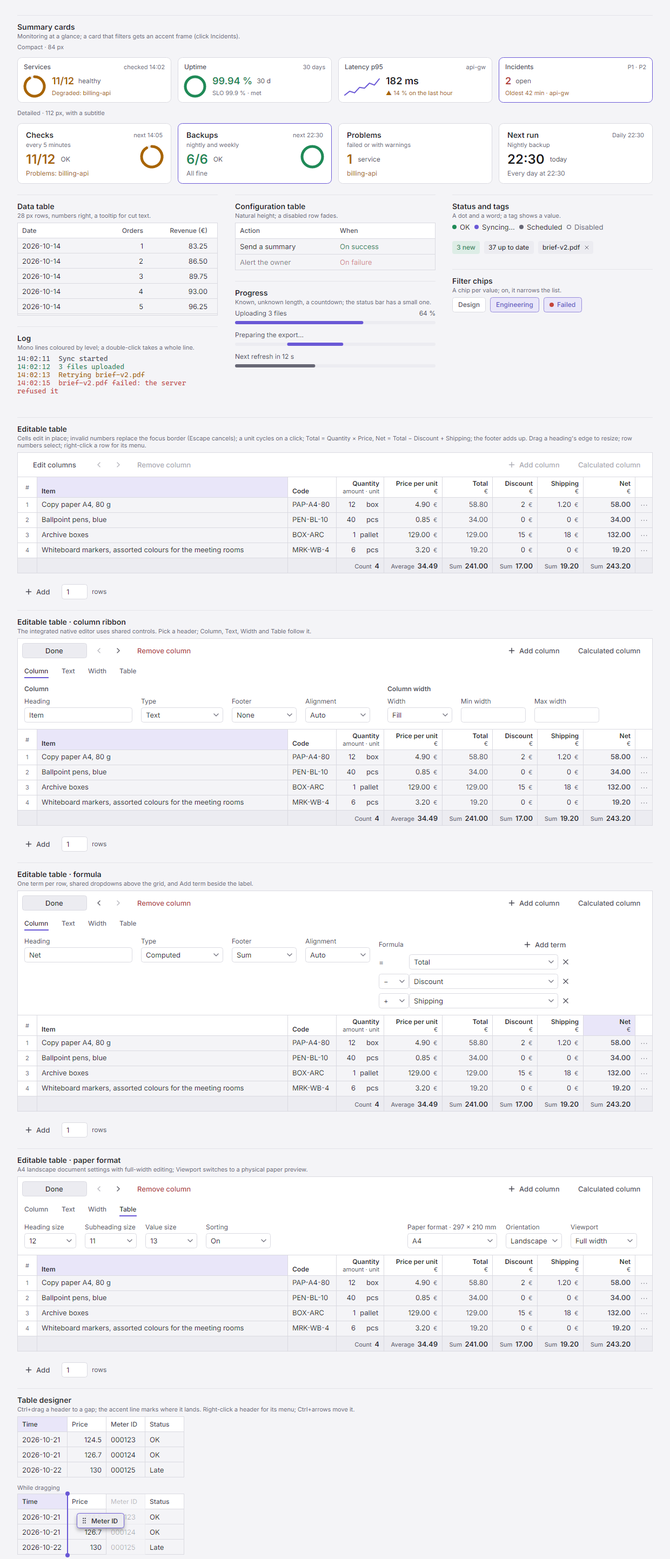
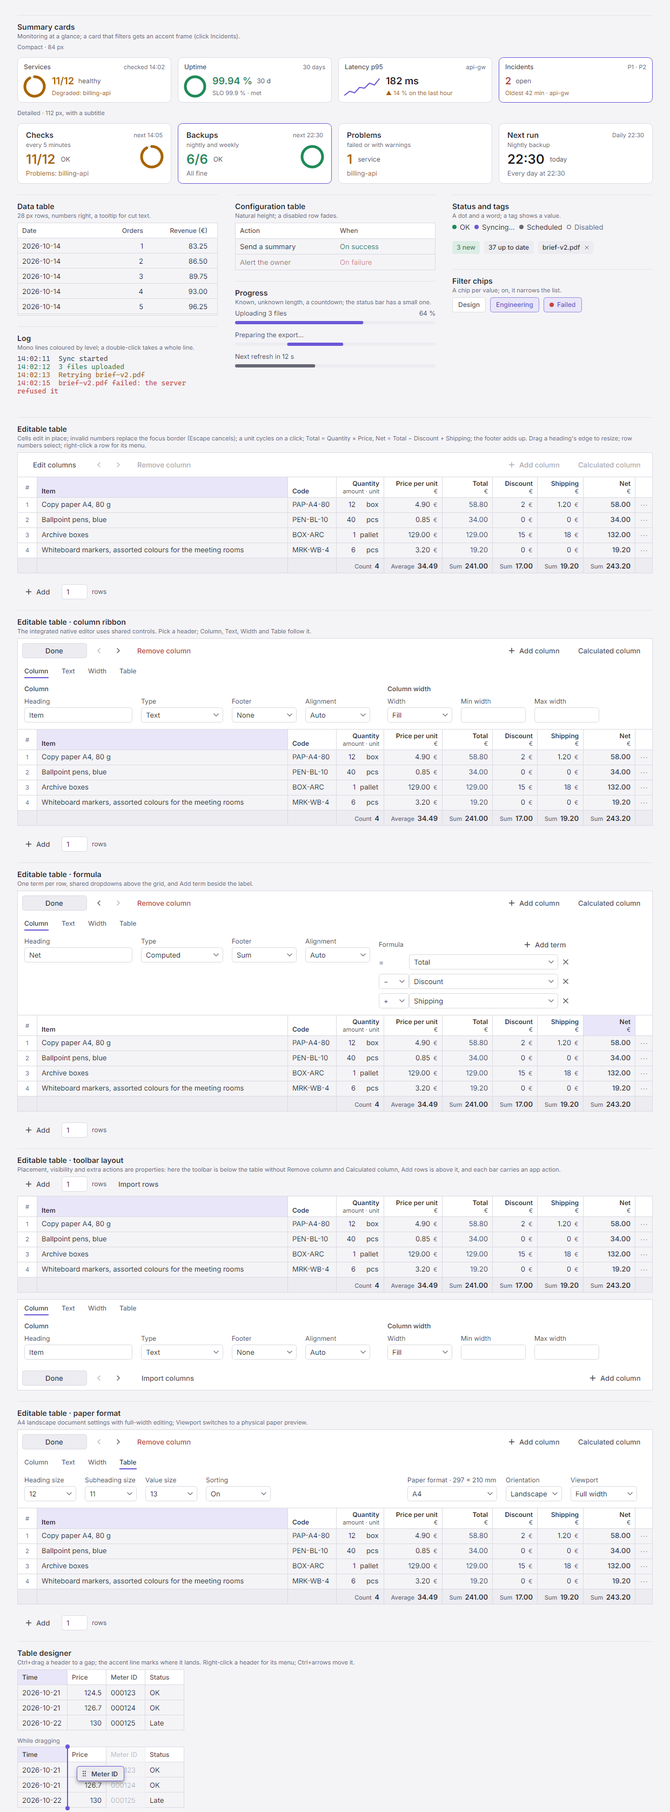
EditableTable: placement, visibility and extra actions for the toolbar and Add rows bar
ToolbarActions (flags) hides built-in toolbar buttons; ToolbarPlacement and
AddRowsPlacement put each bar above, below or away; ToolbarItems and
AddRowsItems take the app's own controls. Defaults keep the current layout.
Web grid: toolbar, toolbarPlacement, addRowsPlacement options and data-slot
children. Additive public API.

diff --git a/docs/index.html b/docs/index.html
@@ -505,6 +505,9 @@
     <div class="block wide"><h4>Editable table</h4><p class="help">Type in any cell; Enter and Shift+Enter go down and up. Invalid numbers show an error and keep the last accepted value; correct the draft or press Escape. Click a unit to change it. Columns fit their content, fill the room left (Item) or keep a fixed width, each with a min and max width; drag a heading's wider edge target to resize (a fill column's minimum; double-click fits). Click a heading to sort: up, down, back to the original order. Click row numbers to select (Ctrl adds, Shift takes a range); right-click or ⋯ for Duplicate, Insert and Delete. Click a footer to choose what it shows. Choose <b>Edit columns</b> in the table toolbar to open the inline ribbon; <b>Done</b> returns to data entry. In edit mode, click a heading to select it; hold Ctrl and drag a heading to a gap (release Ctrl or Esc to cancel), right-click it to insert or remove, Ctrl+←/→ to move.</p>
       <div class="s-grid" id="order-grid"><script type="application/json">{"columns": [{"key": "item", "title": "Item", "type": "text", "grow": true}, {"key": "sku", "title": "Code", "type": "text"}, {"key": "qty", "title": "Quantity", "subtitle": "amount · unit", "type": "unit", "units": ["pcs", "box", "pallet"], "footer": "count"}, {"key": "price", "title": "Price per unit", "subtitle": "€", "type": "number", "decimals": 2, "suffix": "€", "footer": "average"}, {"key": "total", "title": "Total", "subtitle": "€", "type": "computed", "decimals": 2, "footer": "sum", "terms": [{"k": "qty"}, {"op": "×", "k": "price"}]}, {"key": "discount", "title": "Discount", "subtitle": "€", "type": "number", "decimals": 2, "suffix": "€", "footer": "sum"}, {"key": "shipping", "title": "Shipping", "subtitle": "€", "type": "number", "decimals": 2, "suffix": "€", "footer": "sum"}, {"key": "net", "title": "Net", "subtitle": "€", "type": "computed", "decimals": 2, "bold": true, "footer": "sum", "terms": [{"k": "total"}, {"op": "−", "k": "discount"}, {"op": "+", "k": "shipping"}]}], "rows": [{"item": "Copy paper A4, 80 g", "sku": "PAP-A4-80", "qty": "12", "qty:unit": "box", "price": "4.90", "discount": "2", "shipping": "1.20"}, {"item": "Ballpoint pens, blue", "sku": "PEN-BL-10", "qty": "40", "qty:unit": "pcs", "price": "0.85", "discount": "0", "shipping": "0"}, {"item": "Sticky notes 76 × 76 mm", "sku": "NOTE-76", "qty": "2", "qty:unit": "box", "price": "6.40", "discount": "0", "shipping": "0"}, {"item": "Archive boxes", "sku": "BOX-ARC", "qty": "1", "qty:unit": "pallet", "price": "129.00", "discount": "15", "shipping": "18"}, {"item": "Whiteboard markers, assorted colours for the meeting rooms", "sku": "MRK-WB-4", "qty": "6", "qty:unit": "pcs", "price": "3.20", "discount": "0", "shipping": "0"}, {"item": "Desk organiser", "sku": "ORG-DSK", "qty": "3", "qty:unit": "pcs", "price": "12.50", "discount": "1.5", "shipping": "0.80"}]}</script></div>
     </div>
+    <div class="block wide"><h4>Editable table · toolbar layout</h4><p class="help">The options place and trim the bars: <code>toolbar</code> lists the actions that show, <code>toolbarPlacement</code> and <code>addRowsPlacement</code> are <code>top</code>, <code>bottom</code> or <code>hidden</code>, and children marked <code>data-slot="toolbar"</code> or <code>data-slot="add"</code> are the app's own controls. Here the toolbar is below the table without Remove column and Calculated column, Add rows is above it, and each bar carries an action.</p>
+      <div class="s-grid" id="toolbar-grid"><button type="button" class="s-btn ghost" data-slot="toolbar">Import columns</button><button type="button" class="s-btn ghost" data-slot="add">Import rows</button><script type="application/json">{"columns": [{"key": "item", "title": "Item", "type": "text", "grow": true}, {"key": "qty", "title": "Quantity", "type": "number"}, {"key": "price", "title": "Price", "type": "number", "decimals": 2, "suffix": "€"}], "rows": [{"item": "Copy paper A4", "qty": "12", "price": "4.90"}, {"item": "Ballpoint pens", "qty": "40", "price": "0.85"}], "options": {"toolbar": ["edit", "move", "add"], "toolbarPlacement": "bottom", "addRowsPlacement": "top"}}</script></div>
+    </div>
     <div class="masonry">
 <div class="block"><h4>Data table</h4><p class="help">Click a row (Ctrl adds); click a heading to sort up, again down, a third time back to the original order; right-click for the menu.</p>
         <table class="s-table rows sortable"><thead><tr><th>Date</th><th class="num">Orders</th><th class="num">Revenue (€)</th></tr></thead><tbody>

diff --git a/gallery/landing.html b/gallery/landing.html
@@ -408,6 +408,9 @@
     <div class="block wide"><h4>Editable table</h4><p class="help">Type in any cell; Enter and Shift+Enter go down and up. Invalid numbers show an error and keep the last accepted value; correct the draft or press Escape. Click a unit to change it. Columns fit their content, fill the room left (Item) or keep a fixed width, each with a min and max width; drag a heading's wider edge target to resize (a fill column's minimum; double-click fits). Click a heading to sort: up, down, back to the original order. Click row numbers to select (Ctrl adds, Shift takes a range); right-click or ⋯ for Duplicate, Insert and Delete. Click a footer to choose what it shows. Choose <b>Edit columns</b> in the table toolbar to open the inline ribbon; <b>Done</b> returns to data entry. In edit mode, click a heading to select it; hold Ctrl and drag a heading to a gap (release Ctrl or Esc to cancel), right-click it to insert or remove, Ctrl+←/→ to move.</p>
       <div class="s-grid" id="order-grid"><script type="application/json">{"columns": [{"key": "item", "title": "Item", "type": "text", "grow": true}, {"key": "sku", "title": "Code", "type": "text"}, {"key": "qty", "title": "Quantity", "subtitle": "amount · unit", "type": "unit", "units": ["pcs", "box", "pallet"], "footer": "count"}, {"key": "price", "title": "Price per unit", "subtitle": "€", "type": "number", "decimals": 2, "suffix": "€", "footer": "average"}, {"key": "total", "title": "Total", "subtitle": "€", "type": "computed", "decimals": 2, "footer": "sum", "terms": [{"k": "qty"}, {"op": "×", "k": "price"}]}, {"key": "discount", "title": "Discount", "subtitle": "€", "type": "number", "decimals": 2, "suffix": "€", "footer": "sum"}, {"key": "shipping", "title": "Shipping", "subtitle": "€", "type": "number", "decimals": 2, "suffix": "€", "footer": "sum"}, {"key": "net", "title": "Net", "subtitle": "€", "type": "computed", "decimals": 2, "bold": true, "footer": "sum", "terms": [{"k": "total"}, {"op": "−", "k": "discount"}, {"op": "+", "k": "shipping"}]}], "rows": [{"item": "Copy paper A4, 80 g", "sku": "PAP-A4-80", "qty": "12", "qty:unit": "box", "price": "4.90", "discount": "2", "shipping": "1.20"}, {"item": "Ballpoint pens, blue", "sku": "PEN-BL-10", "qty": "40", "qty:unit": "pcs", "price": "0.85", "discount": "0", "shipping": "0"}, {"item": "Sticky notes 76 × 76 mm", "sku": "NOTE-76", "qty": "2", "qty:unit": "box", "price": "6.40", "discount": "0", "shipping": "0"}, {"item": "Archive boxes", "sku": "BOX-ARC", "qty": "1", "qty:unit": "pallet", "price": "129.00", "discount": "15", "shipping": "18"}, {"item": "Whiteboard markers, assorted colours for the meeting rooms", "sku": "MRK-WB-4", "qty": "6", "qty:unit": "pcs", "price": "3.20", "discount": "0", "shipping": "0"}, {"item": "Desk organiser", "sku": "ORG-DSK", "qty": "3", "qty:unit": "pcs", "price": "12.50", "discount": "1.5", "shipping": "0.80"}]}</script></div>
     </div>
+    <div class="block wide"><h4>Editable table · toolbar layout</h4><p class="help">The options place and trim the bars: <code>toolbar</code> lists the actions that show, <code>toolbarPlacement</code> and <code>addRowsPlacement</code> are <code>top</code>, <code>bottom</code> or <code>hidden</code>, and children marked <code>data-slot="toolbar"</code> or <code>data-slot="add"</code> are the app's own controls. Here the toolbar is below the table without Remove column and Calculated column, Add rows is above it, and each bar carries an action.</p>
+      <div class="s-grid" id="toolbar-grid"><button type="button" class="s-btn ghost" data-slot="toolbar">Import columns</button><button type="button" class="s-btn ghost" data-slot="add">Import rows</button><script type="application/json">{"columns": [{"key": "item", "title": "Item", "type": "text", "grow": true}, {"key": "qty", "title": "Quantity", "type": "number"}, {"key": "price", "title": "Price", "type": "number", "decimals": 2, "suffix": "€"}], "rows": [{"item": "Copy paper A4", "qty": "12", "price": "4.90"}, {"item": "Ballpoint pens", "qty": "40", "price": "0.85"}], "options": {"toolbar": ["edit", "move", "add"], "toolbarPlacement": "bottom", "addRowsPlacement": "top"}}</script></div>
+    </div>
     <div class="masonry">
 <div class="block"><h4>Data table</h4><p class="help">Click a row (Ctrl adds); click a heading to sort up, again down, a third time back to the original order; right-click for the menu.</p>
         <table class="s-table rows sortable"><thead><tr><th>Date</th><th class="num">Orders</th><th class="num">Revenue (€)</th></tr></thead><tbody>

diff --git a/docs/shade.js b/docs/shade.js
@@ -631,13 +631,14 @@
     // sizing: fit (its content, never cut), fill (the room the others leave) or fixed (width); min and max hold any of them
     var cols = cfg.columns.map(function (c) { return Object.assign({ type: 'text', footer: 'none', width: null, min: null, max: null, sizing: c.grow ? 'fill' : c.width ? 'fixed' : 'fit' }, c); });
     var rows = cfg.rows.map(function (r) { return { id: ++seq, v: Object.assign({}, r) }; });
-    var opt = Object.assign({ head: 12, sub: 11, cell: 13, sorting: true, design: false, paper: 'Screen', orientation: 'Portrait', paperWidth: 210, paperHeight: 297, constrain: true, paperDimensionsPlacement: 'Bottom' }, cfg.options || {}), sort = { key: null, dir: 0 };
+    var opt = Object.assign({ head: 12, sub: 11, cell: 13, sorting: true, design: false, paper: 'Screen', orientation: 'Portrait', paperWidth: 210, paperHeight: 297, constrain: true, paperDimensionsPlacement: 'Bottom', toolbar: ['edit', 'move', 'remove', 'add', 'computed'], toolbarPlacement: 'top', addRowsPlacement: 'bottom' }, cfg.options || {}), sort = { key: null, dir: 0 };
     var selected = {}, anchor = null, current = cols[0].key, line = document.createElement('div');
     function field(label, key, items, scope, extra) {
       var attr = ' data-grid="' + box.id + '" data-' + (scope || 'col') + '="' + key + '"';
       return '<label class="s-label grid-field-' + key + '">' + label + (items ? '<span class="s-select"' + attr + ' data-items="' + items + '"></span>'
         : '<input class="s-field"' + attr + (extra || '') + '>') + '</label>';
     }
+    var slots = { toolbar: $('[data-slot="toolbar"]', box), add: $('[data-slot="add"]', box) };
     box.innerHTML = '<div class="grid-toolbar" role="toolbar" aria-label="Table columns"><button type="button" class="s-btn ghost edit-columns" data-opt="design" aria-pressed="false" aria-expanded="false" aria-controls="' + box.id + '-ribbon">Edit columns</button>' +
       '<button type="button" class="s-btn ghost square move-left" aria-label="Move column left" data-tip="Move column left" disabled>' + icon('chevron-left') + '</button>' +
       '<button type="button" class="s-btn ghost square move-right" aria-label="Move column right" data-tip="Move column right" disabled>' + icon('chevron-right') + '</button>' +
@@ -667,6 +668,14 @@
       '<input class="s-field count" value="1" inputmode="numeric" aria-label="Rows to add"><span>rows</span></div>';
     $('.s-select', box).forEach(function (el) { el.setAttribute('data-floating', ''); select(el); el.querySelector('button').setAttribute('aria-label', el.parentElement.firstChild.textContent); });
     line.className = 'line'; line.hidden = true; box.appendChild(line);
+    // the toolbar and the Add rows bar: options pick the actions and the side; [data-slot="toolbar"|"add"] children are the app's own controls
+    var tools = { edit: '.edit-columns', move: '.move-left, .move-right', remove: '.remove-column', add: '.grid-toolbar .column', computed: '.computed-column' }, bar = box.querySelector('.grid-toolbar'), addBar = box.querySelector('.add');
+    Object.keys(tools).forEach(function (k) { $(tools[k], box).forEach(function (el) { el.hidden = opt.toolbar.indexOf(k) < 0; }); });
+    slots.toolbar.forEach(function (el) { bar.insertBefore(el, bar.querySelector('.grid-toolbar-spacer')); });
+    slots.add.forEach(function (el) { addBar.appendChild(el); });
+    bar.hidden = opt.toolbarPlacement === 'hidden' || !bar.querySelector(':scope > :not([hidden]):not(.grid-toolbar-spacer)');
+    addBar.hidden = opt.addRowsPlacement === 'hidden';
+    box.dataset.toolbarAt = opt.toolbarPlacement; box.dataset.addAt = opt.addRowsPlacement;
     var scroll = box.querySelector('.scroll'), table = scroll.firstChild, countField = box.querySelector('.count');
     var ribbon = box.querySelector('.grid-ribbon'), edit = box.querySelector('.edit-columns'), tabs = $('[role="tab"]', ribbon);
     var activePane = 0, panels = $('.grid-ribbon-panel', ribbon), groupLabels = ['Column', 'Column text', 'Column width', 'Table defaults and paper'];

diff --git a/docs/shade.css b/docs/shade.css
@@ -517,6 +517,12 @@ mark.s-hit { padding: 0 1px; margin: 0 -1px; border-radius: 2px; background: var
 .s-grid .grid-toolbar { display: flex; align-items: center; gap: 8px; }
 .s-grid .grid-toolbar { min-height: 44px; padding: 8px; border: 1px solid var(--separator); border-bottom: 0; background: var(--raised); flex-wrap: wrap; }
 .s-grid .grid-toolbar-spacer { flex: 1; }
+.s-grid .grid-toolbar[hidden], .s-grid .add[hidden], .s-grid .s-btn[hidden] { display: none; }
+/* the bars on the other side: a column, so `order` moves them (the editor opens on the table's side of the toolbar) */
+.s-grid[data-toolbar-at="bottom"], .s-grid[data-add-at="top"] { display: flex; flex-direction: column; }
+.s-grid[data-toolbar-at="bottom"] .grid-toolbar { order: 3; border-top: 0; border-bottom: 1px solid var(--separator); }
+.s-grid[data-toolbar-at="bottom"] .grid-ribbon { order: 2; border-top: 1px solid var(--separator); border-bottom: 0; }
+.s-grid[data-add-at="top"] .add { order: -1; margin: 0 0 8px; }
 .s-grid .edit-columns { min-width: 120px; }
 .s-grid .grid-ribbon { padding: 8px 12px 12px; border: 1px solid var(--separator); border-bottom: 0; background: var(--raised); }
 .s-grid .grid-ribbon-tabs { margin-bottom: 12px; }

diff --git a/src/Shade/Controls/EditableTable.ColumnEditor.cs b/src/Shade/Controls/EditableTable.ColumnEditor.cs
@@ -16,6 +16,25 @@ public sealed partial class EditableTable
     /// <summary>Show the integrated column toolbar and inline editor. Off preserves the existing table layout.</summary>
     public static readonly DirectProperty<EditableTable, bool> ShowColumnEditorProperty = AvaloniaProperty.RegisterDirect<EditableTable, bool>(nameof(ShowColumnEditor), x => x.ShowColumnEditor, (x, v) => x.ShowColumnEditor = v);
     public bool ShowColumnEditor { get => showColumnEditor; set { if (SetAndRaise(ShowColumnEditorProperty, ref showColumnEditor, value)) { if (value && !columnEditorCreated) BuildColumnEditor(); Rebuild(); } } }
+    /// <summary>The built-in toolbar buttons; clear a flag to hide that action (the table still works through code and the column menu).</summary>
+    [Flags] public enum ToolbarAction { None = 0, EditColumns = 1, MoveColumn = 2, RemoveColumn = 4, AddColumn = 8, CalculatedColumn = 16, All = 31 }
+    /// <summary>Where a bar sits around the grid. Hidden removes the Add rows bar, or the toolbar's buttons (the open column editor stays on top).</summary>
+    public enum BarPlacement { Top, Bottom, Hidden }
+    public static readonly StyledProperty<ToolbarAction> ToolbarActionsProperty = AvaloniaProperty.Register<EditableTable, ToolbarAction>(nameof(ToolbarActions), ToolbarAction.All, validate: value => (value & ~ToolbarAction.All) == 0);
+    public static readonly StyledProperty<BarPlacement> ToolbarPlacementProperty = AvaloniaProperty.Register<EditableTable, BarPlacement>(nameof(ToolbarPlacement), BarPlacement.Top, validate: value => Enum.IsDefined(value));
+    public static readonly StyledProperty<BarPlacement> AddRowsPlacementProperty = AvaloniaProperty.Register<EditableTable, BarPlacement>(nameof(AddRowsPlacement), BarPlacement.Bottom, validate: value => Enum.IsDefined(value));
+    /// <summary>Which built-in toolbar buttons show (all by default); the other groups close up.</summary>
+    public ToolbarAction ToolbarActions { get => GetValue(ToolbarActionsProperty); set => SetValue(ToolbarActionsProperty, value); }
+    /// <summary>The toolbar above the table (default) or below it, with the open column editor beside it.</summary>
+    public BarPlacement ToolbarPlacement { get => GetValue(ToolbarPlacementProperty); set => SetValue(ToolbarPlacementProperty, value); }
+    /// <summary>The Add rows bar below the table (default), above it, or removed.</summary>
+    public BarPlacement AddRowsPlacement { get => GetValue(AddRowsPlacementProperty); set => SetValue(AddRowsPlacementProperty, value); }
+    /// <summary>The app's own controls in the toolbar, between the built-in groups.</summary>
+    public Controls ToolbarItems => toolbarItems.Children;
+    /// <summary>The app's own controls at the end of the Add rows bar.</summary>
+    public Controls AddRowsItems => addRowsItems.Children;
+    readonly StackPanel toolbarItems = new() { Orientation = Orientation.Horizontal, Spacing = M(8), IsVisible = false };
+    StackPanel? toolbarLeft, toolbarRight;
     bool showColumnEditor, syncingColumnEditor, columnEditorCreated;
     readonly List<Action<Column>> columnEditorSync = new();
     readonly List<(Field Field, int Pane, Func<bool> Applies, Action Validate, Action Commit, Action Reset)> ribbonFields = new();
@@ -31,7 +50,7 @@ public sealed partial class EditableTable
 
     Control CreateColumnEditor(Control grid)
     {
-        var root = new Grid { RowDefinitions = new RowDefinitions("Auto,*"), Children = { columnEditorHead, grid } }; Grid.SetRow(grid, 1);
+        var root = new Grid { RowDefinitions = new RowDefinitions("Auto,*,Auto"), Children = { columnEditorHead, grid } }; Grid.SetRow(grid, 1);
         return root;
     }
     void BuildColumnEditor()
@@ -43,13 +62,14 @@ public sealed partial class EditableTable
         Words(editColumns, b => b.Content = T(Design ? "Done" : "Edit columns"));
         Words(newColumn, b => b.Content = T("Add column")); Words(computedColumn, b => b.Content = T("Calculated column")); Words(removeColumn, b => b.Content = T("Remove column"));
         Words(columnTabs, tabs => { var names = new[] { "Column", "Text", "Width", "Table" }; for (int i = 0; i < names.Length; i++) tabs.SetName(i, T(names[i])); });
-        var left = new StackPanel { Orientation = Orientation.Horizontal, Spacing = M(8), Children = { editColumns, moveLeft, moveRight, removeColumn } };
-        var right = new StackPanel { Orientation = Orientation.Horizontal, HorizontalAlignment = HorizontalAlignment.Right, Spacing = M(8), Children = { newColumn, computedColumn } };
+        var left = toolbarLeft = new StackPanel { Orientation = Orientation.Horizontal, Spacing = M(8), Children = { editColumns, moveLeft, moveRight, removeColumn } };
+        var right = toolbarRight = new StackPanel { Orientation = Orientation.Horizontal, HorizontalAlignment = HorizontalAlignment.Right, Spacing = M(8), Children = { newColumn, computedColumn } };
+        toolbarItems.Children.CollectionChanged += (_, _) => SyncColumnEditor();
         editColumns.MinWidth = M(120);
         foreach (var button in new[] { moveLeft, moveRight }) { button.MinWidth = 0; button.Width = ControlHeight; }
         Words(moveLeft, b => { ToolTip.SetTip(b, T("Move column left")); Avalonia.Automation.AutomationProperties.SetName(b, T("Move column left")); });
         Words(moveRight, b => { ToolTip.SetTip(b, T("Move column right")); Avalonia.Automation.AutomationProperties.SetName(b, T("Move column right")); });
-        var toolbar = new RibbonFlow { AlignLast = true, Children = { left, right } };
+        var toolbar = new RibbonFlow { AlignLast = true, Children = { left, toolbarItems, right } };
         columnToolbarFrame.Child = toolbar; columnToolbarFrame.Padding = new Thickness(M(8)); columnToolbarFrame.BorderThickness = new Thickness(1, 1, 1, 0);
         columnRibbonFrame.Child = columnRibbon; columnRibbonFrame.Padding = new Thickness(M(12), M(8), M(12), 0); columnRibbonFrame.BorderThickness = new Thickness(1, 0, 1, 0);
         columnEditorHead.Children.Add(columnToolbarFrame); columnEditorHead.Children.Add(columnRibbonFrame);
@@ -205,6 +225,7 @@ public sealed partial class EditableTable
         columnEditorHead.IsVisible = ShowColumnEditor;
         if (!columnEditorCreated) return;
         columnRibbonFrame.IsVisible = Design && !IsReadOnly;
+        SyncToolbarLayout();
         editColumns.Content = T(Design ? "Done" : "Edit columns"); editColumns.Kind = Design ? ButtonKind.Normal : ButtonKind.Ghost;
         editColumns.IsEnabled = !IsReadOnly;
         var mutable = Design && !IsReadOnly && !columns.IsReadOnly;
@@ -244,6 +265,25 @@ public sealed partial class EditableTable
         }
         finally { syncingColumnEditor = false; }
         PaintColumnEditor();
+    }
+    void SyncToolbarLayout()
+    {
+        var shown = ToolbarActions;
+        editColumns.IsVisible = shown.HasFlag(ToolbarAction.EditColumns);
+        moveLeft.IsVisible = moveRight.IsVisible = shown.HasFlag(ToolbarAction.MoveColumn);
+        removeColumn.IsVisible = shown.HasFlag(ToolbarAction.RemoveColumn);
+        newColumn.IsVisible = shown.HasFlag(ToolbarAction.AddColumn);
+        computedColumn.IsVisible = shown.HasFlag(ToolbarAction.CalculatedColumn);
+        toolbarLeft!.IsVisible = editColumns.IsVisible || moveLeft.IsVisible || removeColumn.IsVisible;
+        toolbarRight!.IsVisible = newColumn.IsVisible || computedColumn.IsVisible;
+        toolbarItems.IsVisible = toolbarItems.Children.Count > 0;
+        columnToolbarFrame.IsVisible = ToolbarPlacement != BarPlacement.Hidden && (toolbarLeft.IsVisible || toolbarItems.IsVisible || toolbarRight.IsVisible);
+        bool bottom = ToolbarPlacement == BarPlacement.Bottom;
+        Grid.SetRow(columnEditorHead, bottom ? 2 : 0);
+        // the editor opens on the table's side of the toolbar
+        if ((columnEditorHead.Children[0] == columnToolbarFrame) == bottom) columnEditorHead.Children.Move(0, 1);
+        columnToolbarFrame.BorderThickness = new Thickness(1, bottom ? 0 : 1, 1, bottom ? 1 : 0);
+        columnRibbonFrame.BorderThickness = bottom ? new Thickness(1, 1, 1, 0) : new Thickness(1, 0, 1, 0);
     }
     void PaintColumnEditor()
     {

diff --git a/src/Shade/Controls/EditableTable.cs b/src/Shade/Controls/EditableTable.cs
@@ -181,6 +181,9 @@ namespace Shade
         sealed class Pinned : Panel
         {
             readonly Control head, body, foot, across, down, actions, validation;
+            /// <summary>The actions sit above the heading instead of below the grid.</summary>
+            public bool ActionsFirst { get => actionsFirst; set { if (actionsFirst == value) return; actionsFirst = value; InvalidateArrange(); } }
+            bool actionsFirst;
             public Pinned(Control head, Control body, Control foot, Control across, Control down, Control actions, Control validation)
             {
                 this.head = head; this.body = body; this.foot = foot; this.across = across; this.down = down;
@@ -207,12 +210,13 @@ namespace Shade
                 double w = Math.Max(0, size.Width - Side), y = 0;
                 double still = head.DesiredSize.Height + foot.DesiredSize.Height + across.DesiredSize.Height + actions.DesiredSize.Height + validation.DesiredSize.Height;
                 double rows = Math.Max(0, Math.Min(body.DesiredSize.Height, size.Height - still));
+                if (ActionsFirst) { actions.Arrange(new Rect(0, y, w, actions.DesiredSize.Height)); y += actions.DesiredSize.Height; }
                 head.Arrange(new Rect(0, y, w, head.DesiredSize.Height)); y += head.DesiredSize.Height;
                 body.Arrange(new Rect(0, y, w, rows)); down.Arrange(new Rect(w, y, Side, rows)); y += rows;
                 foot.Arrange(new Rect(0, y, w, foot.DesiredSize.Height)); y += foot.DesiredSize.Height;
                 across.Arrange(new Rect(0, y, w, across.DesiredSize.Height)); y += across.DesiredSize.Height;
                 validation.Arrange(new Rect(0, y, w, validation.DesiredSize.Height)); y += validation.DesiredSize.Height;
-                actions.Arrange(new Rect(0, y, w, actions.DesiredSize.Height));
+                if (!ActionsFirst) actions.Arrange(new Rect(0, y, w, actions.DesiredSize.Height));
                 return size;
             }
         }
@@ -251,6 +255,8 @@ namespace Shade
         readonly Canvas overlay = new Canvas { IsHitTestVisible = false, ClipToBounds = true };
         readonly Border line = new Border { Width = 2, CornerRadius = new CornerRadius(1), IsVisible = false };
         readonly Field count = new Field("") { Width = 48, Text = "1" };
+        readonly StackPanel addBar = new StackPanel { Orientation = Orientation.Horizontal, Spacing = 8, Margin = new Thickness(0, 8, 0, 0) };
+        readonly StackPanel addRowsItems = new StackPanel { Orientation = Orientation.Horizontal, Spacing = 8, IsVisible = false };
         readonly TextBlock rowsLabel = Words(Build.Text("", Text2, TextSize.Label), text => text.Text = T("rows"));
         readonly ActionButton addRows = Words(new ActionButton(T("Add"), ButtonKind.Ghost, Icons.Plus), button => { button.Disarm(); button.Content = T("Add"); }), addColumn = Words(new ActionButton(T("Add column"), ButtonKind.Ghost, Icons.Plus), button => { button.Disarm(); button.Content = T("Add column"); });
         /// <summary>The one text box: it moves to the cell being edited, over that cell's text.</summary>
@@ -356,8 +362,9 @@ namespace Shade
             bodyView = new ScrollViewer { Content = Frame(bodyGrid, new Thickness(1, 0, 0, 0)), HorizontalScrollBarVisibility = ScrollBarVisibility.Hidden, VerticalScrollBarVisibility = ScrollBarVisibility.Hidden };
             footView = new ScrollViewer { Content = Frame(footGrid, new Thickness(1, 0, 0, 0)), HorizontalScrollBarVisibility = ScrollBarVisibility.Hidden, VerticalScrollBarVisibility = ScrollBarVisibility.Disabled };
             addColumn.Margin = new Thickness(8, 0, 0, 0);
-            var bar = new StackPanel { Orientation = Orientation.Horizontal, Spacing = 8, Margin = new Thickness(0, 8, 0, 0), Children = { addRows, count, rowsLabel, addColumn } };
-            area = new Pinned(headView, bodyView, footView, across, down, bar, validationMessage) { VerticalAlignment = VerticalAlignment.Top };
+            addRowsItems.Children.CollectionChanged += (_, _) => addRowsItems.IsVisible = addRowsItems.Children.Count > 0;
+            addBar.Children.AddRange(new Control[] { addRows, count, rowsLabel, addColumn, addRowsItems });
+            area = new Pinned(headView, bodyView, footView, across, down, addBar, validationMessage) { VerticalAlignment = VerticalAlignment.Top };
             overlay.Children.Add(line);
             Avalonia.Automation.AutomationProperties.SetLiveSetting(validationMessage, Avalonia.Automation.AutomationLiveSetting.Assertive);
             Child = CreateColumnEditor(new Panel { Children = { area, overlay } });
@@ -650,6 +657,8 @@ namespace Shade
             bodyGrid.Children.Clear(); bodyGrid.RowDefinitions.Clear(); lines.Clear(); shown.Clear(); visible.Clear();
             line.Background = B(Accent); ring.BorderBrush = B(FocusBorder);
             addRows.IsVisible = count.IsVisible = rowsLabel.IsVisible = !readOnly && !rows.IsReadOnly;
+            var rowsTop = AddRowsPlacement == BarPlacement.Top;
+            addBar.IsVisible = AddRowsPlacement != BarPlacement.Hidden; addBar.Margin = rowsTop ? new Thickness(0, 0, 0, 8) : new Thickness(0, 8, 0, 0); area.ActionsFirst = rowsTop;
             addColumn.IsVisible = !ShowColumnEditor && design && !readOnly && !columns.IsReadOnly;
             SyncColumnEditor();
             rooms = columns.Select(Room).ToArray();

diff --git a/tests/Shade.Tests/Program.cs b/tests/Shade.Tests/Program.cs
@@ -284,6 +284,37 @@ namespace Shade.Tests
             window.Close();
         }
 
+        /// <summary>The toolbar and the Add rows bar open through properties: hidden actions, placement, the app's own controls.</summary>
+        static void ToolbarLayout()
+        {
+            var column = new EditableTable.Column("code", "Code", EditableTable.Kind.General);
+            var table = new EditableTable { ShowColumnEditor = true, Columns = new List<EditableTable.Column> { column }, Rows = new List<EditableTable.Row> { new() } };
+            var window = new Window { Width = 1100, Height = 600, Content = table }; window.Show();
+            void Settle() { Dispatcher.UIThread.RunJobs(); AvaloniaHeadlessPlatform.ForceRenderTimerTick(); Dispatcher.UIThread.RunJobs(); }
+            ActionButton? Button(string text) => table.GetVisualDescendants().OfType<ActionButton>().FirstOrDefault(b => b.Content?.ToString() == text);
+            double Y(Control c) => c.TranslatePoint(default, table)!.Value.Y;
+            var grid = table.GetVisualDescendants().OfType<Panel>().Single(p => p.GetType().Name == "Pinned");
+            Settle();
+            Ok(Button("Remove column")!.IsEffectivelyVisible && Button("Calculated column")!.IsEffectivelyVisible && Y(Button("Edit columns")!) < Y(grid) && Y(Button("Add")!) > Y(grid), "toolbar layout: the default is all actions, toolbar above the table, Add rows below");
+            table.ToolbarActions = EditableTable.ToolbarAction.All & ~(EditableTable.ToolbarAction.RemoveColumn | EditableTable.ToolbarAction.CalculatedColumn); Settle();
+            Ok(!Button("Remove column")!.IsEffectivelyVisible && !Button("Calculated column")!.IsEffectivelyVisible && Button("Add column")!.IsEffectivelyVisible && Button("Edit columns")!.IsEffectivelyVisible, "toolbar layout: a cleared action is hidden, the others stay");
+            table.ToolbarActions = EditableTable.ToolbarAction.None; Settle();
+            Ok(!Button("Edit columns")!.IsEffectivelyVisible && !Button("Add column")!.IsEffectivelyVisible, "toolbar layout: no actions leaves no toolbar");
+            var export = new ActionButton("Export", ButtonKind.Ghost); table.ToolbarItems.Add(export); Settle();
+            Ok(export.IsEffectivelyVisible && !Button("Edit columns")!.IsEffectivelyVisible, "toolbar layout: an app action shows in a toolbar without built-in actions");
+            table.ToolbarActions = EditableTable.ToolbarAction.All; table.ToolbarPlacement = EditableTable.BarPlacement.Bottom; table.AddRowsPlacement = EditableTable.BarPlacement.Top; Settle();
+            Ok(Y(Button("Edit columns")!) > Y(grid) + grid.Bounds.Height - 1 && Y(export) > Y(grid) && Y(Button("Add")!) < Y(grid) + 8, "toolbar layout: toolbar below the table, Add rows above");
+            var import = new ActionButton("Import", ButtonKind.Ghost); table.AddRowsItems.Add(import); Settle();
+            Ok(import.IsEffectivelyVisible && Math.Abs(Y(import) - Y(Button("Add")!)) < 1, "toolbar layout: an app action joins the Add rows bar");
+            table.Design = true; Settle();
+            Ok(Y(Button("Done")!) > Y(table.GetVisualDescendants().OfType<TextTabs>().First()), "toolbar layout: the open column editor sits above a bottom toolbar");
+            table.AddRowsPlacement = EditableTable.BarPlacement.Hidden; Settle();
+            Ok(!Button("Add")!.IsEffectivelyVisible && !import.IsEffectivelyVisible, "toolbar layout: Hidden removes the Add rows bar");
+            bool rejected = false; try { table.ToolbarActions = (EditableTable.ToolbarAction)64; } catch (ArgumentException) { rejected = true; }
+            Ok(rejected, "toolbar layout: an unknown action flag is rejected");
+            window.Close();
+        }
+
         /// <summary>The editable table counts in decimals (money to the cent, as an export does); an app's own rules come in
         /// through Calculate, and FromTerms keeps the table's formula for the columns it leaves.</summary>
         static void ColumnRibbon()
@@ -1843,6 +1874,7 @@ namespace Shade.Tests
             Modes();
             Editing();
             ColumnRibbon();
+            ToolbarLayout();
             ColumnRibbonFeedback();
             ColumnViewportAndLayout();
             ColumnRibbonLayouts();
@@ -2239,6 +2271,7 @@ namespace Shade.Tests
             sheet.SetCurrentValue(EditableTable.ConstrainToPaperProperty, true); Dispatcher.UIThread.RunJobs(); Ok(vm.ConstrainToPaper, "EditableTable: the viewport property has a two-way binding default");
             Ok(sheet.ShowColumnEditor == vm.Flag && sheet.ValueSize == 14 && sheet.Sorting == vm.Flag && !sheet.CanResize && !sheet.CanEditFooter, "EditableTable: sizes, sorting and permissions from XAML and the view model");
             sheet.Design = true; Dispatcher.UIThread.RunJobs(); Ok(vm.Designing, "EditableTable: Design reaches the view model");
+            Ok(sheet.ToolbarActions == (EditableTable.ToolbarAction.EditColumns | EditableTable.ToolbarAction.AddColumn) && sheet.ToolbarPlacement == EditableTable.BarPlacement.Bottom && sheet.AddRowsPlacement == EditableTable.BarPlacement.Top, "EditableTable: toolbar actions and bar placement from XAML");
 
             var modes = Get<ModeSwitch>("Modes");
             vm.Mode = ModeChoice.Light; Ok(modes.Value == ModeChoice.Light && Current == Look.Mode.Light, "ModeSwitch: the view model switches the mode");

diff --git a/gallery/Showcase.cs b/gallery/Showcase.cs
@@ -269,6 +269,7 @@ static class Showcase
             FormLayout.Block("Editable table", "Cells edit in place; invalid numbers replace the focus border (Escape cancels); a unit cycles on a click; Total = Quantity × Price, Net = Total − Discount + Shipping; the footer adds up. Drag a heading's edge to resize; row numbers select; right-click a row for its menu.", Editing()),
             FormLayout.Block("Editable table · column ribbon", "The integrated native editor uses shared controls. Pick a header; Column, Text, Width and Table follow it.", Editing(true)),
             FormLayout.Block("Editable table · formula", "One term per row, shared dropdowns above the grid, and Add term beside the label.", FormulaEditing()),
+            FormLayout.Block("Editable table · toolbar layout", "Placement, visibility and extra actions are properties: here the toolbar is below the table without Remove column and Calculated column, Add rows is above it, and each bar carries an app action.", ToolbarEditing()),
             FormLayout.Block("Editable table · paper format", "A4 landscape document settings with full-width editing; Viewport switches to a physical paper preview.", PaperEditing()),
             FormLayout.Block("Table designer", "Ctrl+drag a header to a gap; the accent line marks where it lands. Right-click a header for its menu; Ctrl+arrows move it.", Designers(interactive)));
         return Blocks(340, 3,
@@ -285,6 +286,14 @@ static class Showcase
     static Control FormulaEditing()
     {
         var table = (EditableTable)Editing(true); table.CurrentColumn = table.Columns.Last(); return table;
+    }
+    internal static Control ToolbarEditing()
+    {
+        var table = (EditableTable)Editing(true);
+        table.ToolbarPlacement = EditableTable.BarPlacement.Bottom; table.AddRowsPlacement = EditableTable.BarPlacement.Top;
+        table.ToolbarActions = EditableTable.ToolbarAction.All & ~(EditableTable.ToolbarAction.RemoveColumn | EditableTable.ToolbarAction.CalculatedColumn);
+        table.ToolbarItems.Add(new ActionButton("Import columns", ButtonKind.Ghost)); table.AddRowsItems.Add(new ActionButton("Import rows", ButtonKind.Ghost));
+        return table;
     }
     internal static Control PaperEditing()
     {

diff --git a/src/Shade/Controls/EditableTable.Paper.cs b/src/Shade/Controls/EditableTable.Paper.cs
@@ -38,6 +38,7 @@ public sealed partial class EditableTable
     protected override void OnPropertyChanged(AvaloniaPropertyChangedEventArgs change)
     {
         base.OnPropertyChanged(change);
+        if (change.Property == ToolbarActionsProperty || change.Property == ToolbarPlacementProperty || change.Property == AddRowsPlacementProperty) { Rebuild(); return; }
         if (change.Property == PaperDimensionsPlacementProperty) { foreach (var sync in paperEditorSync) sync(); return; }
         if (change.Property == ConstrainToPaperProperty) { UpdatePaperViewport(); foreach (var sync in paperEditorSync) sync(); return; }
         if (change.Property != PaperFormatProperty && change.Property != PaperLandscapeProperty && change.Property != CustomPaperSizeProperty) return;

diff --git a/DESIGN.md b/DESIGN.md
@@ -617,7 +617,7 @@ snapshots; suggestion navigation retains the text editor and popup rows. See `do
 
 **`editable-table-cell`** + **`editable-table-footer`** — Rows edited in place under headings with a subtitle: a value with a unit cycles its unit on a click; invalid numeric drafts keep the last accepted value and show a danger border plus an error message (Escape cancels); a computed column joins columns with + − × ÷, in decimals (money to the cent; an app's own rules through `Calculate`); the footer sums, averages or counts. Columns fit their content, fill the room left or keep a fixed width, each with a minimum and a maximum; a 12px target centered across the heading's edge resizes; headings sort up, down, back. The rows scroll under a pinned heading and footer, the bars outside the grid. One editor moves to the clicked cell, caret where clicked. A column's `Display` formats its numbers (culture, currency), measured so; `CanResize`, `CanEditFooter`, a settable `CurrentColumn` and `CanRemoveColumn` carry an app's rules. A General column holds numbers and codes as typed, each aligned by what it is unless `Column.Alignment` or a per-cell `Row.Alignments[columnKey]` overrides it (native `TextAlignment.Left`, `Right` or `Center`, cell before column; `Refresh()` after configuration changes); headings and footers keep their alignment. A row's unit no longer in the list still shows. Row numbers select; a row's menu duplicates, inserts and deletes. Its design mode uses Ctrl+drag to move a column, with Ctrl+arrows for keyboard use and no grip over the text. Releasing Ctrl or Escape cancels a drag. The insertion line and drop region end at the actual grid; Add rows sits directly below the footer/scrollbar. Invalid cells have one danger frame replacing focus. Columns can override `HeadingSize`/`SubheadingSize` and use `Italic` alongside `Bold`; measurement and editing match. An empty None footer has no caption or ellipsis; hover offers a compact calculation glyph and tooltip. Code: `EditableTable`.
 
-The CSS/JS gallery has an inline column ribbon: Edit columns ↔ Done on the left, Add column and Calculated column on the right. Its Column, Text, Width and Table tabs use the shared TextTabs sliding underline and replace the detached configuration forms. Done uses the shared secondary action-button style. Move and Remove sit in the toolbar; formula terms use a readable vertical list with Add term beside its label and scrolling for longer expressions. Unit columns define their comma-separated unit list in the ribbon; existing row units are preserved. Paper settings align right beside the table controls. Ribbon dropdowns float above the table, outside the formula scroll area, while preserving the shared connected field/list border with no gap; upward expansion reverses the joined corners. Fixed width stays within the column’s min/max bounds. Table includes Screen, A5, A4, A3, Letter, Legal and custom paper dimensions in millimetres, with orientation and a print page size. The native editor is opt-in through `ShowColumnEditor`; alignment, units, formulas, text and sizing are implemented with shared controls. Native paper presets, orientation and validated custom millimetre dimensions match the web controls. `PaperSize` reports the effective page dimensions for the app’s platform-specific print/export pipeline.
+The CSS/JS gallery has an inline column ribbon: Edit columns ↔ Done on the left, Add column and Calculated column on the right (the toolbar may sit below the table instead, its frame closing on the bottom edge with the open ribbon above it). Its Column, Text, Width and Table tabs use the shared TextTabs sliding underline and replace the detached configuration forms. Done uses the shared secondary action-button style. Move and Remove sit in the toolbar; formula terms use a readable vertical list with Add term beside its label and scrolling for longer expressions. Unit columns define their comma-separated unit list in the ribbon; existing row units are preserved. Paper settings align right beside the table controls. Ribbon dropdowns float above the table, outside the formula scroll area, while preserving the shared connected field/list border with no gap; upward expansion reverses the joined corners. Fixed width stays within the column’s min/max bounds. Table includes Screen, A5, A4, A3, Letter, Legal and custom paper dimensions in millimetres, with orientation and a print page size. The native editor is opt-in through `ShowColumnEditor`; alignment, units, formulas, text and sizing are implemented with shared controls. Native paper presets, orientation and validated custom millimetre dimensions match the web controls. `PaperSize` reports the effective page dimensions for the app’s platform-specific print/export pipeline.
 
 Ribbon numbers use the configured culture without grouping. Done reveals and focuses invalid ribbon drafts; Escape in a field restores its last applied value, while changing columns discards invalid column drafts. Supplied typography sizes appear accurately as choices. Formula sources distinguish duplicate titles by subtitle, then by table position, without exposing storage keys.
 

diff --git a/docs/ADOPTION.md b/docs/ADOPTION.md
@@ -416,6 +416,22 @@ Done validates current ribbon text synchronously, commits valid pending input an
 
 The ribbon does not yet configure `Decimals`, date/currency display rules, allowed paper presets or host validation callbacks. Existing model values and app-owned boundary validation remain supported; see [the capability backlog](BACKLOG.md).
 
+### Toolbar and Add rows layout
+
+The toolbar and the Add rows bar are laid out by properties; the defaults are the layout above, so nothing changes until you set one.
+
+```xml
+<shade:EditableTable ShowColumnEditor="True"
+                     ToolbarActions="EditColumns, MoveColumn, AddColumn"
+                     ToolbarPlacement="Bottom"
+                     AddRowsPlacement="Top" />
+```
+
+- `ToolbarActions` is a flags enum (`EditColumns`, `MoveColumn`, `RemoveColumn`, `AddColumn`, `CalculatedColumn`; default `All`). A cleared action is hidden, its group closes up and a toolbar with nothing left disappears. Hiding a button removes only the button: set `Design` yourself when you hide Edit columns.
+- `ToolbarPlacement` and `AddRowsPlacement` take `Top`, `Bottom` or `Hidden` (defaults `Top` and `Bottom`). The open column editor stays on the table's side of the toolbar; `Hidden` on the toolbar removes its buttons only.
+- `ToolbarItems` and `AddRowsItems` take your own controls: in the toolbar between the built-in groups, at the end of the Add rows bar. To reorder the built-in groups, hide them and add your own.
+- The web grid takes the same in its options (`toolbar`: a list of `edit`, `move`, `remove`, `add`, `computed`; `toolbarPlacement`; `addRowsPlacement`) and children marked `data-slot="toolbar"` or `data-slot="add"`.
+
 ### Viewport and ribbon layout (0.6.5)
 
 `EditableTable.PaperDimensionsPlacement` defaults to `PaperDimensionsPosition.Bottom`. Set it to
